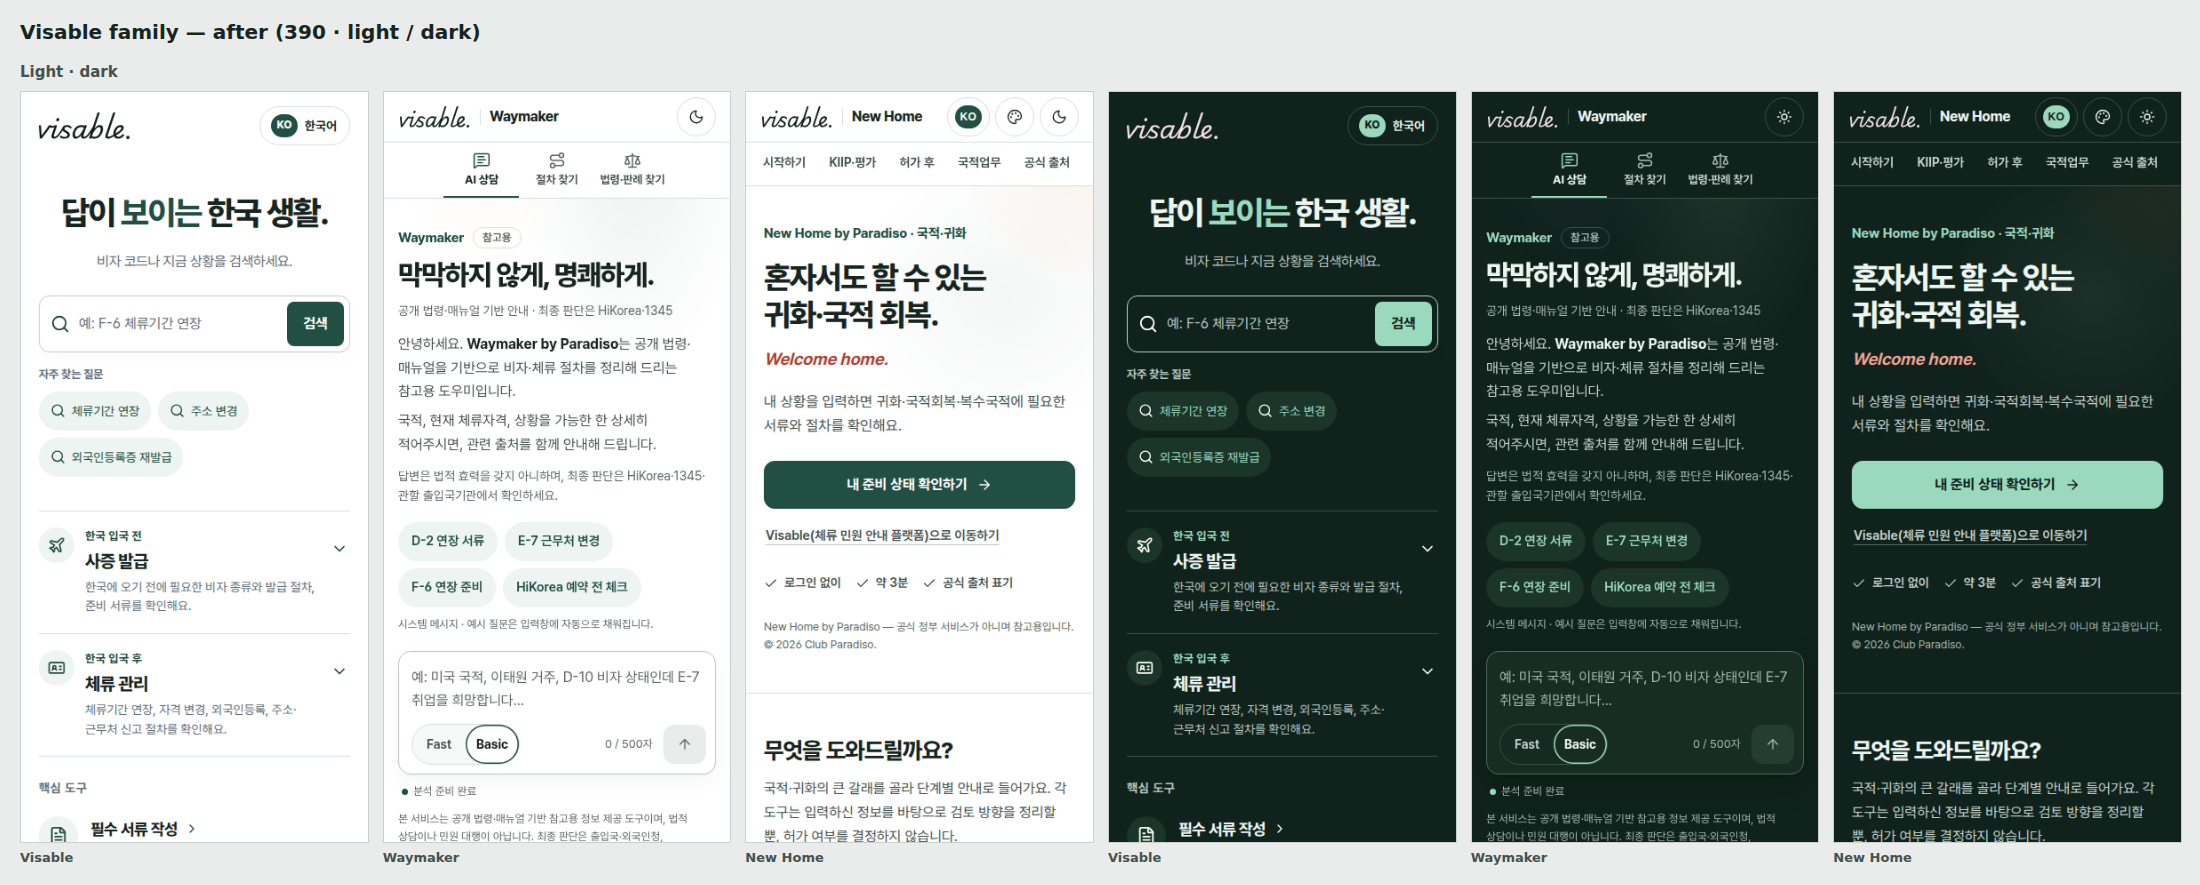
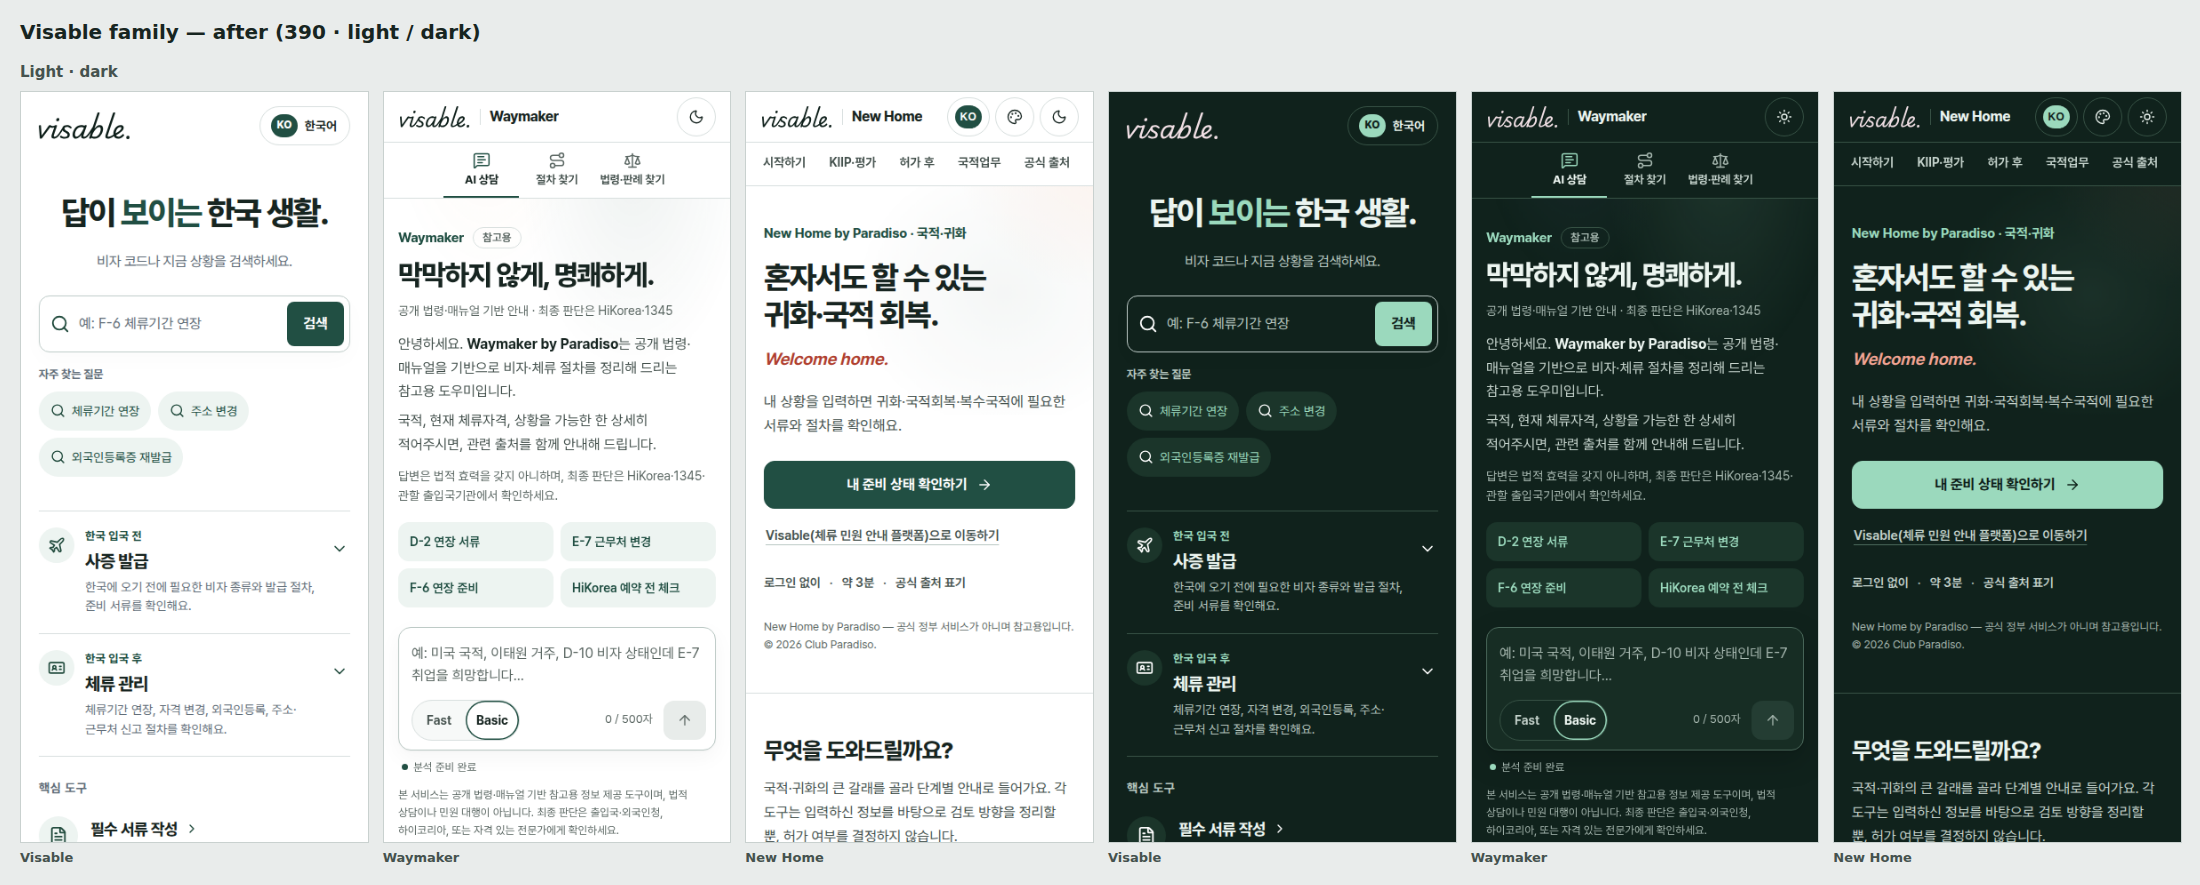
Refresh Waymaker/New Home design screenshots after the source-trust fix (#638)

diff --git a/docs/design/waymaker-new-home-family-20260925.md b/docs/design/waymaker-new-home-family-20260925.md
@@ -88,7 +88,7 @@ Captured on `main` in Chromium (light/dark, 390 and 1440, Pretendard loaded):
   icon style toggle (current style in the tooltip/hidden label) and brightness.
   Sticky in-page navigation marks the section being read (`aria-current`).
 * Arrival: left-aligned kicker, title, "Welcome home.", lead, one primary CTA
-  (준비 상태 확인), Visable as a text link, three checked facts, footnote. The
+  (준비 상태 확인), Visable as a text link, three plain facts (middot list, no check marks), footnote. The
   marquee and fake pagination dots are removed; the warm light stays behind
   the right side only.
 * "무엇을 도와드릴까요?": two starting points (readiness check, path finder)
